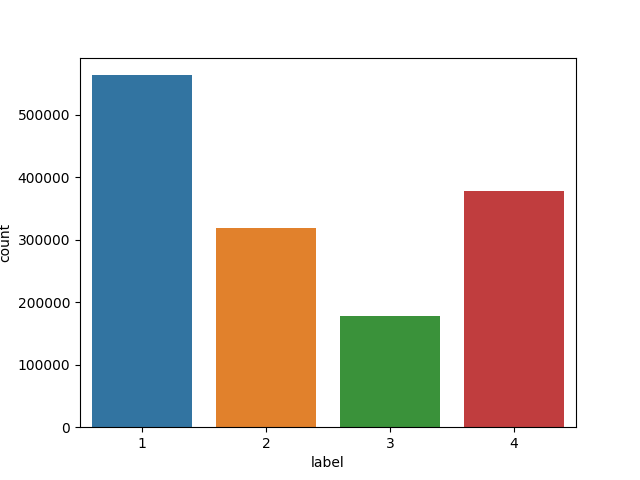
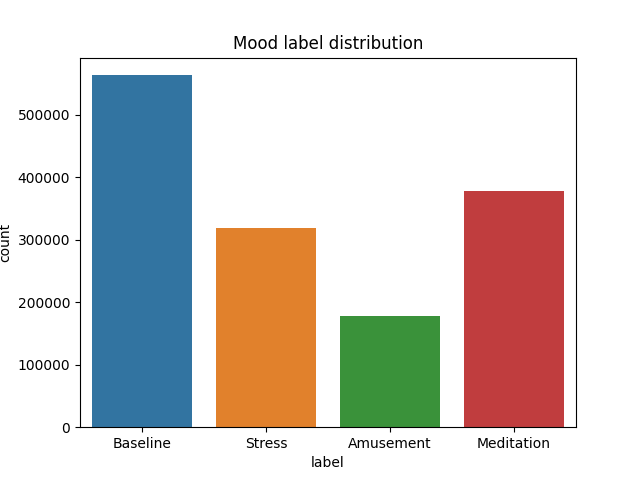
update graphs

diff --git a/Code/read_subject.py b/Code/read_subject.py
@@ -78,7 +78,7 @@ def get_personal_information(dataFolder, subjects):
         row = pd.DataFrame([read_readme_txt(dataFolder, subject)])
         
         personal_information = pd.concat([personal_information, row], ignore_index = True)
-    
+        
     # cleaning
     personal_information = normalize(personal_information)  
             
@@ -150,8 +150,11 @@ def eda(data):
     fig, axes = plt.subplots(nrows=3, ncols=4, figsize=(12, 6))
     sns.countplot(data=data, x="gender", ax=axes[0,0])
     data.groupby('gender').age.plot(kind='kde', legend=True, ax=axes[0,1])
+    axes[0][1].set_xlabel('Age')
     data.groupby('gender').height_cm.plot(kind='kde', legend=True, ax=axes[0,2])
+    axes[0][2].set_xlabel('Height cm')
     data.groupby('gender').weight_kg.plot(kind='kde', legend=True, ax=axes[0,3])
+    axes[0][3].set_xlabel('Weight kg')
     sns.countplot(data=data, x="gender", hue="dominant_hand", ax=axes[1,0])
     sns.countplot(data=data, x="gender", hue="coffee_today", ax=axes[1,1])
     sns.countplot(data=data, x="gender", hue="coffee_last_hr", ax=axes[1,2])

diff --git a/Code/read_sensor.py b/Code/read_sensor.py
@@ -448,6 +448,8 @@ def full_data_groundtruth(dataFolder, subjects, type='both', questionnaires=Fals
 
     # boxplot(all_subjects, 'normalised_sensor_data')
     # sns.countplot(data=all_subjects, x="label")
+    # plt.xticks([0, 1, 2, 3], ['Baseline', 'Stress', 'Amusement', 'Meditation'])
+    # plt.title('Mood label distribution')
     # plt.savefig('./EDA/labels_distribution.png')
     # plt.show()
     
